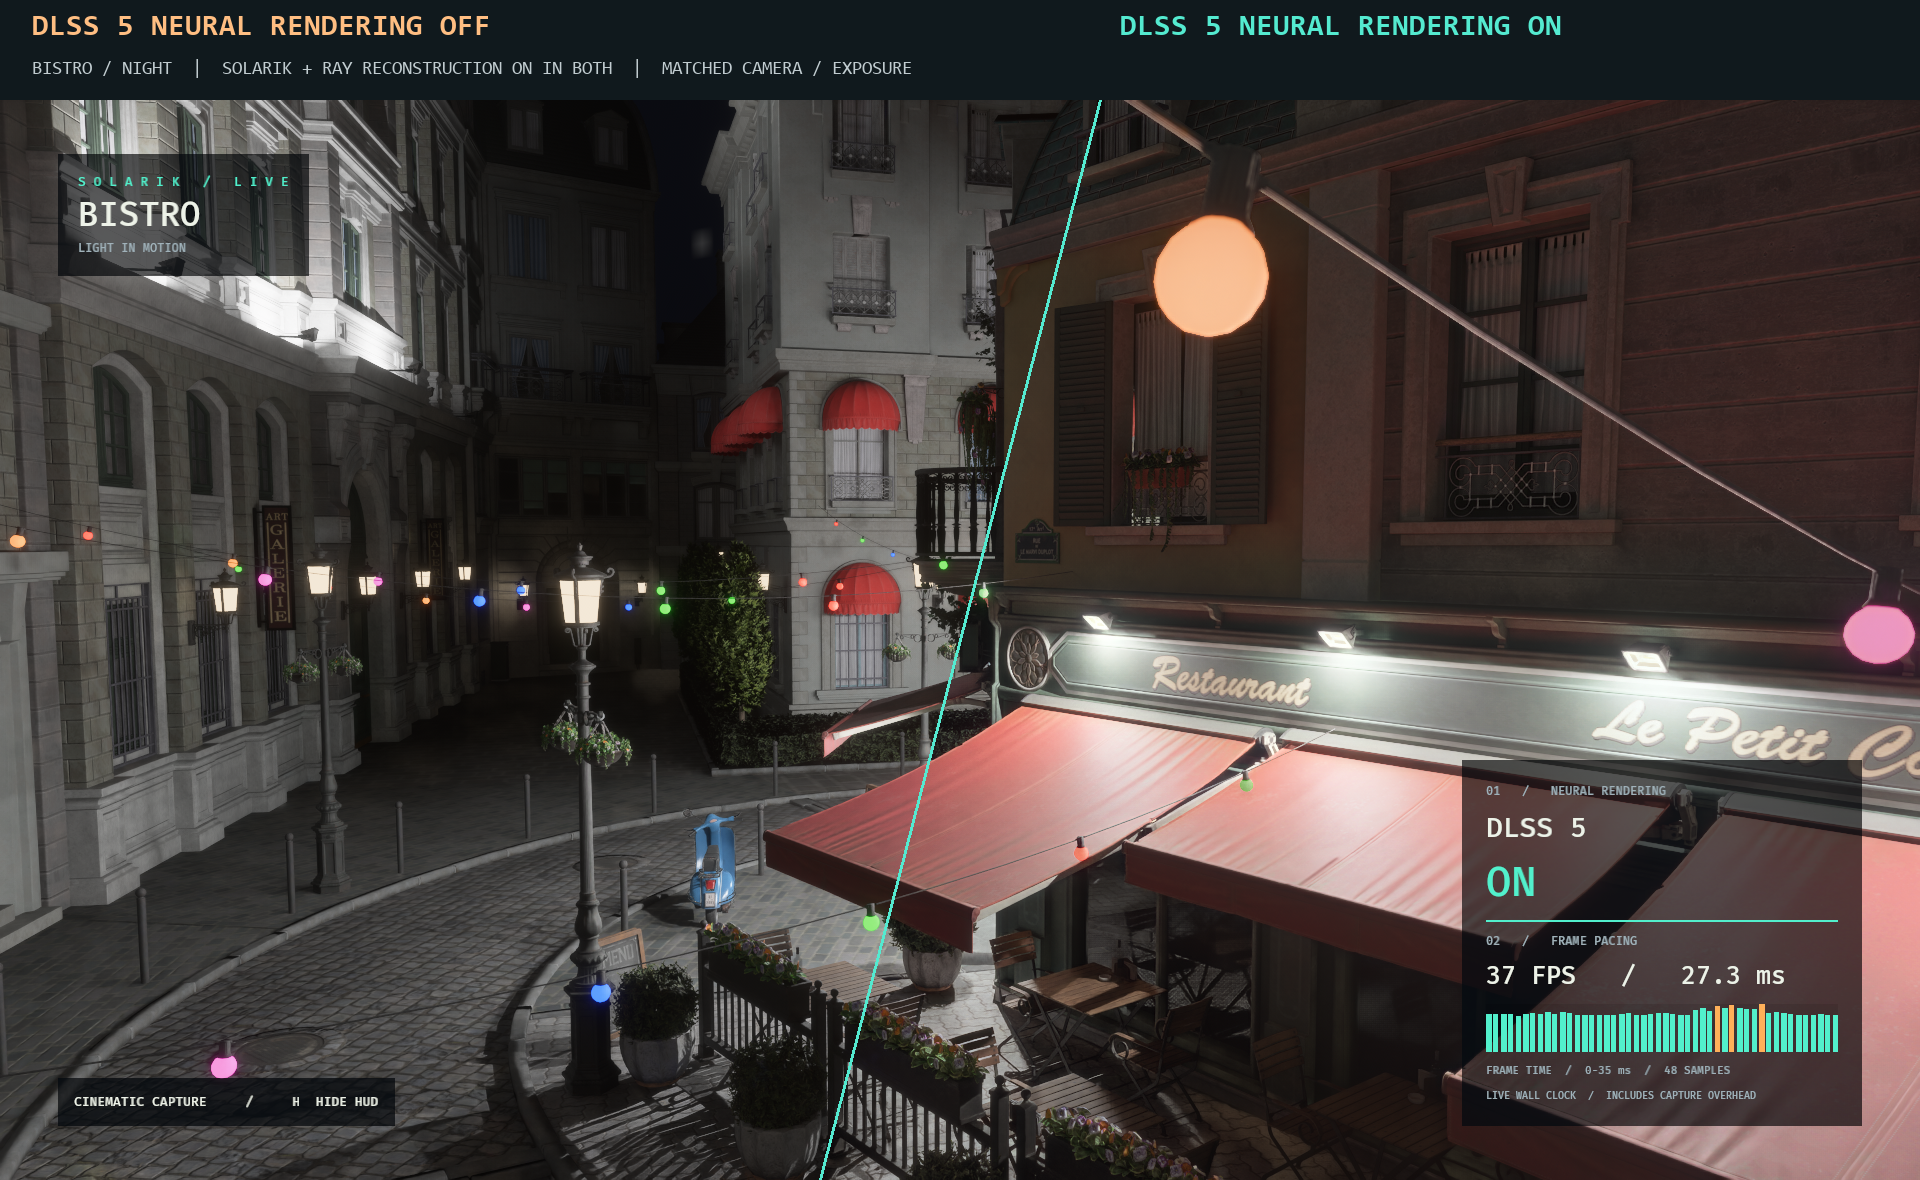
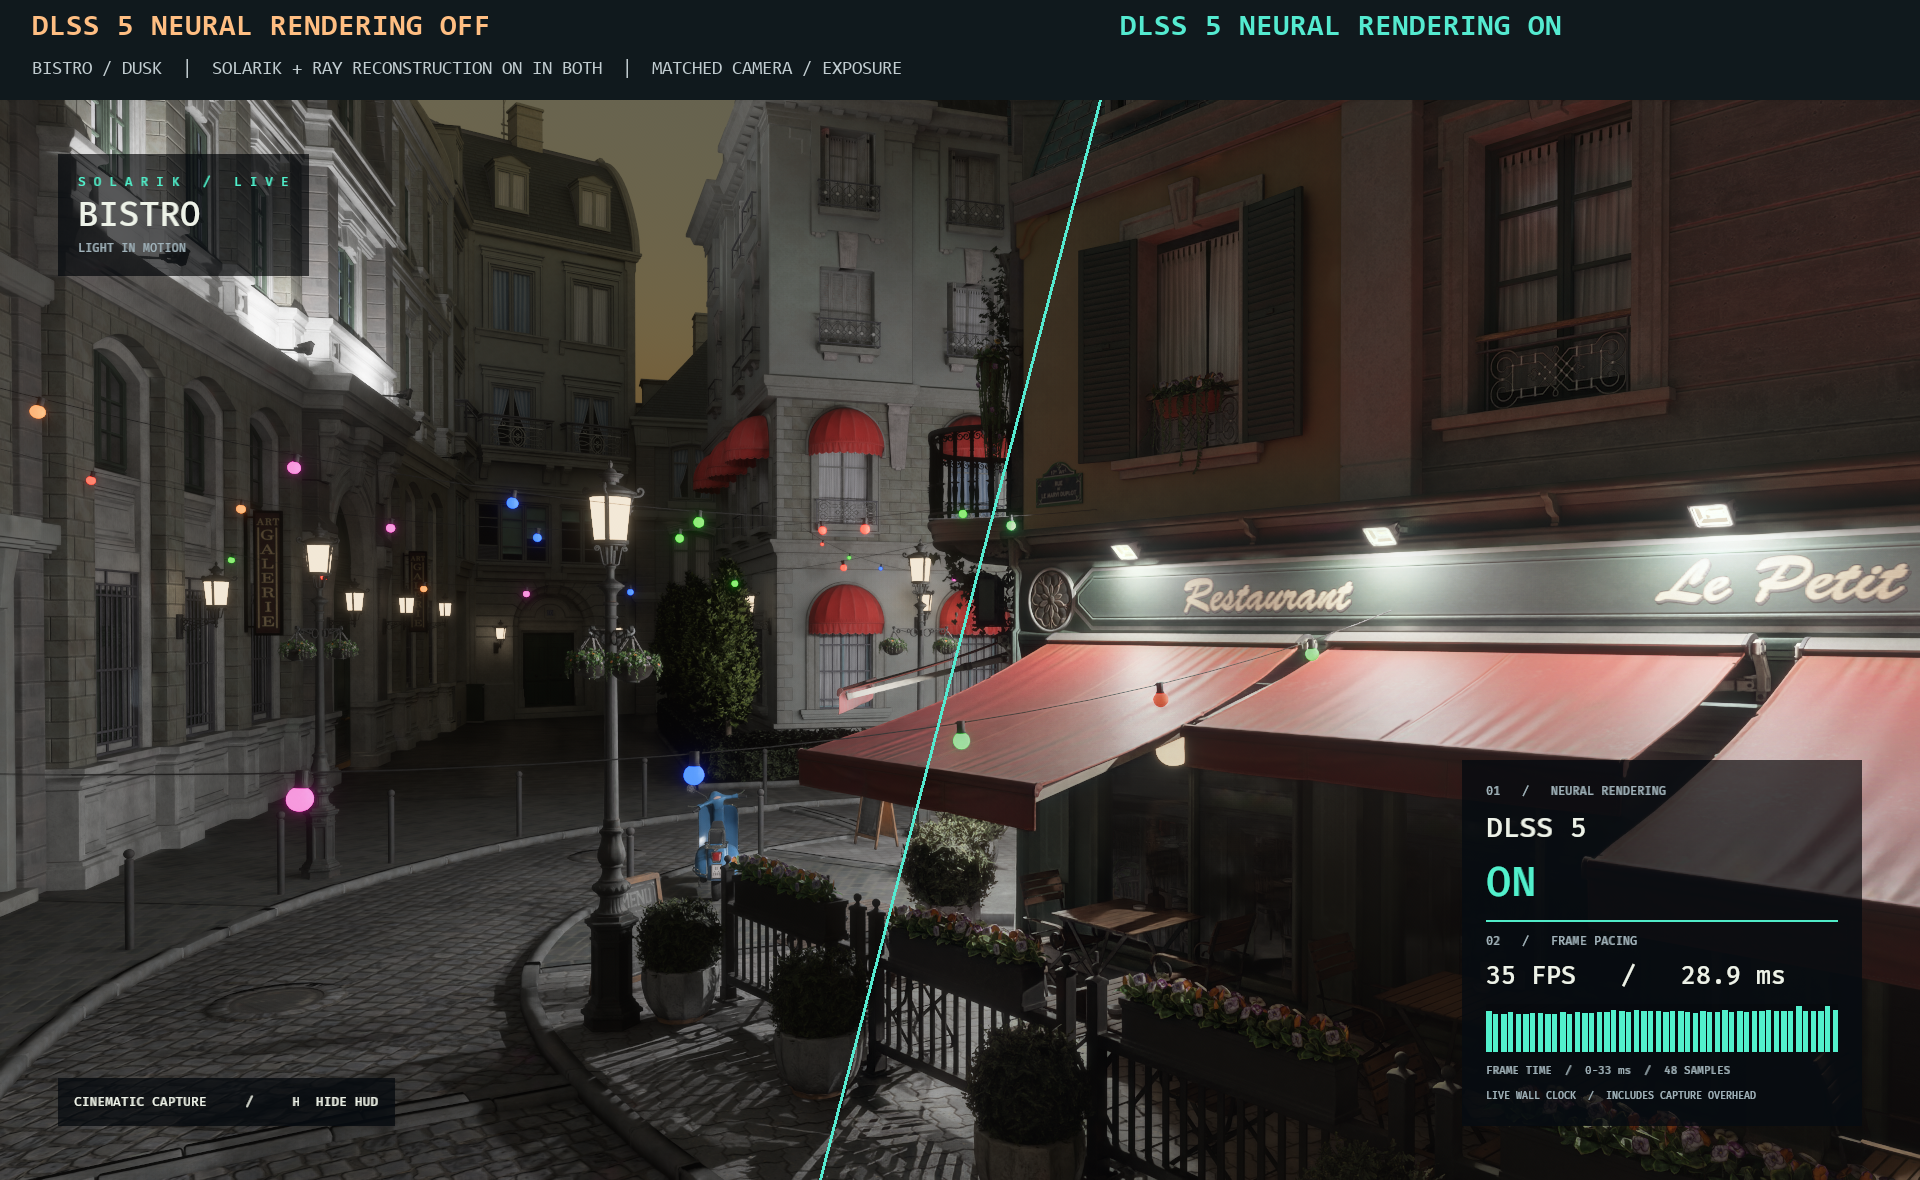
docs: refresh all README comparisons and HUD captures

diff --git a/docs/captures.md b/docs/captures.md
@@ -1,0 +1,50 @@
+# README capture record
+
+September 6, 2026: all four README images are refreshed with Solarik `cc1f9e6`
+(GI foliage endpoints), and playground `90f532a`. These are
+development renderer captures beyond the tagged Solarik release. The matching
+Bistro exterior and original cafe interior are loaded.
+
+Both modes use Solarik, native 1920x1080 DLSS Ray Reconstruction, preset
+exposure and lights, fog/blur, and no additional grading. Day is frame 750 of
+the 1800-frame timeline with 512 fixed-pose warmup frames. Dusk is frame 1520
+with 1024 warmup frames. The historical `night` filenames contain dusk views.
+The full HUD images have Neural Rendering ON; runtime logs confirm it was
+active. Capture logs contain no shader or validation errors.
+
+The comparison images preserve the source pixels on each side of the diagonal,
+adding only a divider and a 100-pixel external label strip. The lower-right HUD
+comes from the ON image. All four final assets were inspected at full resolution.
+Independent runs retain stochastic lighting differences. HUD frame times include
+capture overhead and are not an ON/OFF performance benchmark.
+
+Fixed-camera and fixed-lighting settling checks use the NR-off source images.
+The metric is mean sRGB-decoded display-linear luminance with weights
+(0.2126, 0.7152, 0.0722):
+
+| View / region | Rectangle x, y, width, height | Warmup comparison | Change |
+| --- | --- | --- | ---: |
+| Day pavement | 215, 965, 275, 95 | 128 to 512 | +0.22% |
+| Day facade | 1125, 50, 450, 225 | 128 to 512 | +0.54% |
+| Day wall | 555, 590, 250, 165 | 128 to 512 | +2.83% |
+| Dusk pavement | 50, 860, 380, 125 | 512 to 1024 | +2.30% |
+| Dusk facade | 65, 75, 335, 225 | 512 to 1024 | +0.90% |
+| Dusk wall | 1075, 830, 255, 140 | 512 to 1024 | +0.96% |
+
+These bounded checks do not establish full convergence. Shadow variation and
+soft foliage remain. Solarik's separate README night control still shows
+variation after a longer warmup.
+
+The separate local capture rig was release-built with `cargo build --release --locked`.
+From that rig in Git Bash, the ON sources can be reproduced with:
+
+```bash
+SCENE=bistro SCENE_HUD=1 NR_RES=1920x1080 NR_START=750 NR_TIMELINE=1800 NR_CAPTURE=1 NR_WARMUP=512 SCENE_FX=fog,blur NR_OUT=../artifacts/bevy-sponza/fe-hud-day-on-512 python tools/launch.py capture on
+SCENE=bistro SCENE_HUD=1 NR_RES=1920x1080 NR_START=1520 NR_TIMELINE=1800 NR_CAPTURE=1 NR_WARMUP=1024 SCENE_FX=fog,blur NR_OUT=../artifacts/bevy-sponza/fe-hud-night-on-1024 python tools/launch.py capture on
+```
+
+Repeat with `capture off` and a distinct output directory for the OFF sources.
+Local `fe-*` capture/composition scripts, logs and JSON receipts stay under the
+organizer's `artifacts/bevy-sponza/`. The inventory verifier checks all 12 README
+image files across the three active repositories, including byte-identical
+copies of these four images in the playground. The README retains scene credits.

diff --git a/README.md b/README.md
@@ -20,9 +20,9 @@ pixel-exact measurement of Neural Rendering alone.
 
 ![Bistro day diagonal comparison: DLSS 5 Neural Rendering OFF on the left, ON on the right](docs/bistro_day_comparison.png)
 
-**Night — Neural Rendering OFF / ON**
+**Dusk — Neural Rendering OFF / ON**
 
-![Bistro night diagonal comparison: DLSS 5 Neural Rendering OFF on the left, ON on the right](docs/bistro_night_comparison.png)
+![Bistro dusk diagonal comparison: DLSS 5 Neural Rendering OFF on the left, ON on the right](docs/bistro_night_comparison.png)
 
 <details>
 <summary>Full screenshots — DLSS 5 Neural Rendering ON, with HUD</summary>
@@ -31,18 +31,21 @@ pixel-exact measurement of Neural Rendering alone.
 
 ![Bistro by day with DLSS 5 Neural Rendering ON and the full demo HUD](docs/bistro_day_hud.png)
 
-**Night — DLSS 5 Neural Rendering ON**
+**Dusk — DLSS 5 Neural Rendering ON**
 
-![Bistro at night with DLSS 5 Neural Rendering ON and the full demo HUD](docs/bistro_night_hud.png)
+![Bistro at dusk with DLSS 5 Neural Rendering ON and the full demo HUD](docs/bistro_night_hud.png)
 
 </details>
 
 The HUD reports live backend status, FPS and application frame times. Timings
 include capture overhead; these images are not an ON/OFF performance comparison.
-Captured September 6, 2026 using rig `5380c3d`, frames 100 (day) and 400 (night),
-with 2,048 and 4,096 fixed-pose warm-up frames respectively. Scene exposure,
-lights and neutral grading use the Bistro preset. Night shadow blotching and
-soft foliage remain after warm-up.
+Refreshed September 6, 2026 with Solarik `cc1f9e6` (GI foliage endpoints)
+and playground `90f532a`, including the matching Bistro interior. These use
+frames 750 (day) and 1520 (dusk) of the 1,800-frame timeline, with 512 and
+1,024 fixed-pose warmup frames respectively. Scene exposure, lights and fog/blur
+use the preset; additional grading is disabled. Shadow variation and soft
+foliage remain. [Capture settings and settling checks](docs/captures.md)
+document the refreshed images.
 
 Scene: [Amazon Lumberyard Bistro, via NVIDIA ORCA](https://developer.nvidia.com/orca/amazon-lumberyard-bistro),
 [CC BY 4.0](https://creativecommons.org/licenses/by/4.0/), using the
